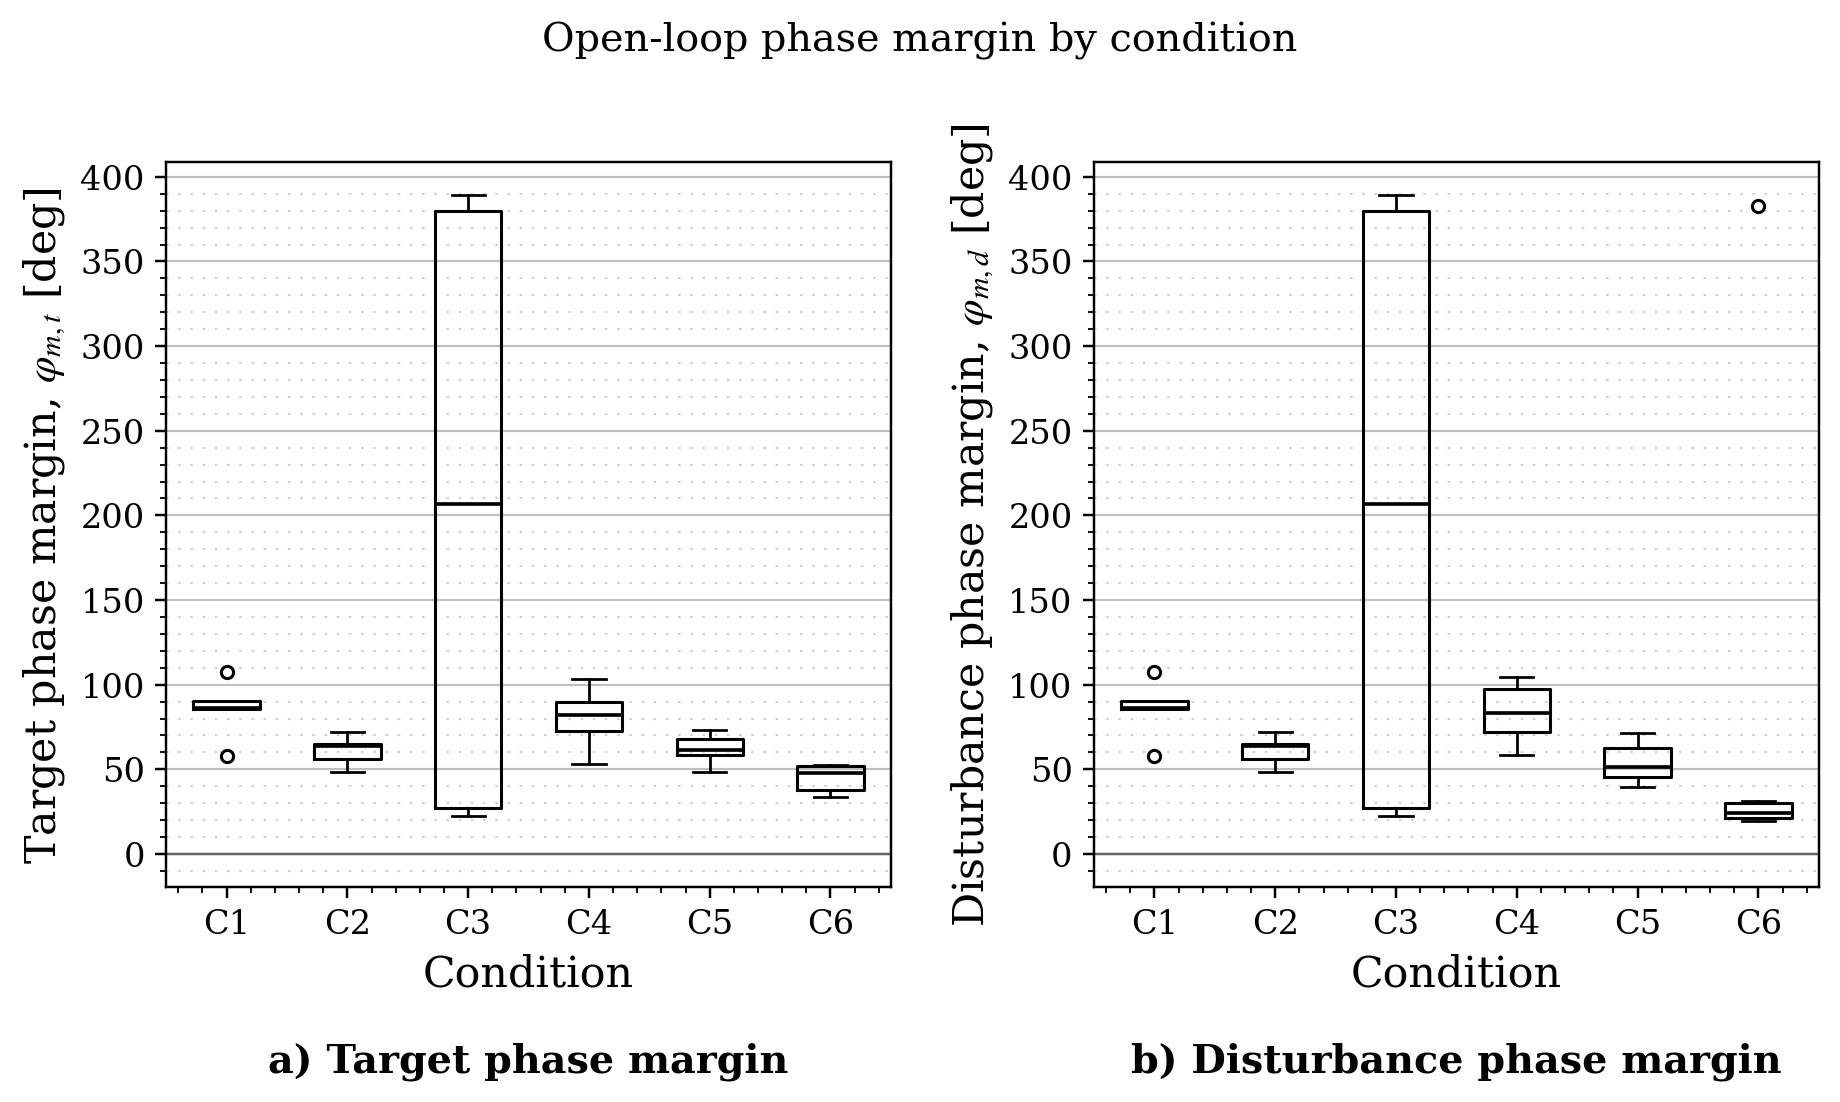
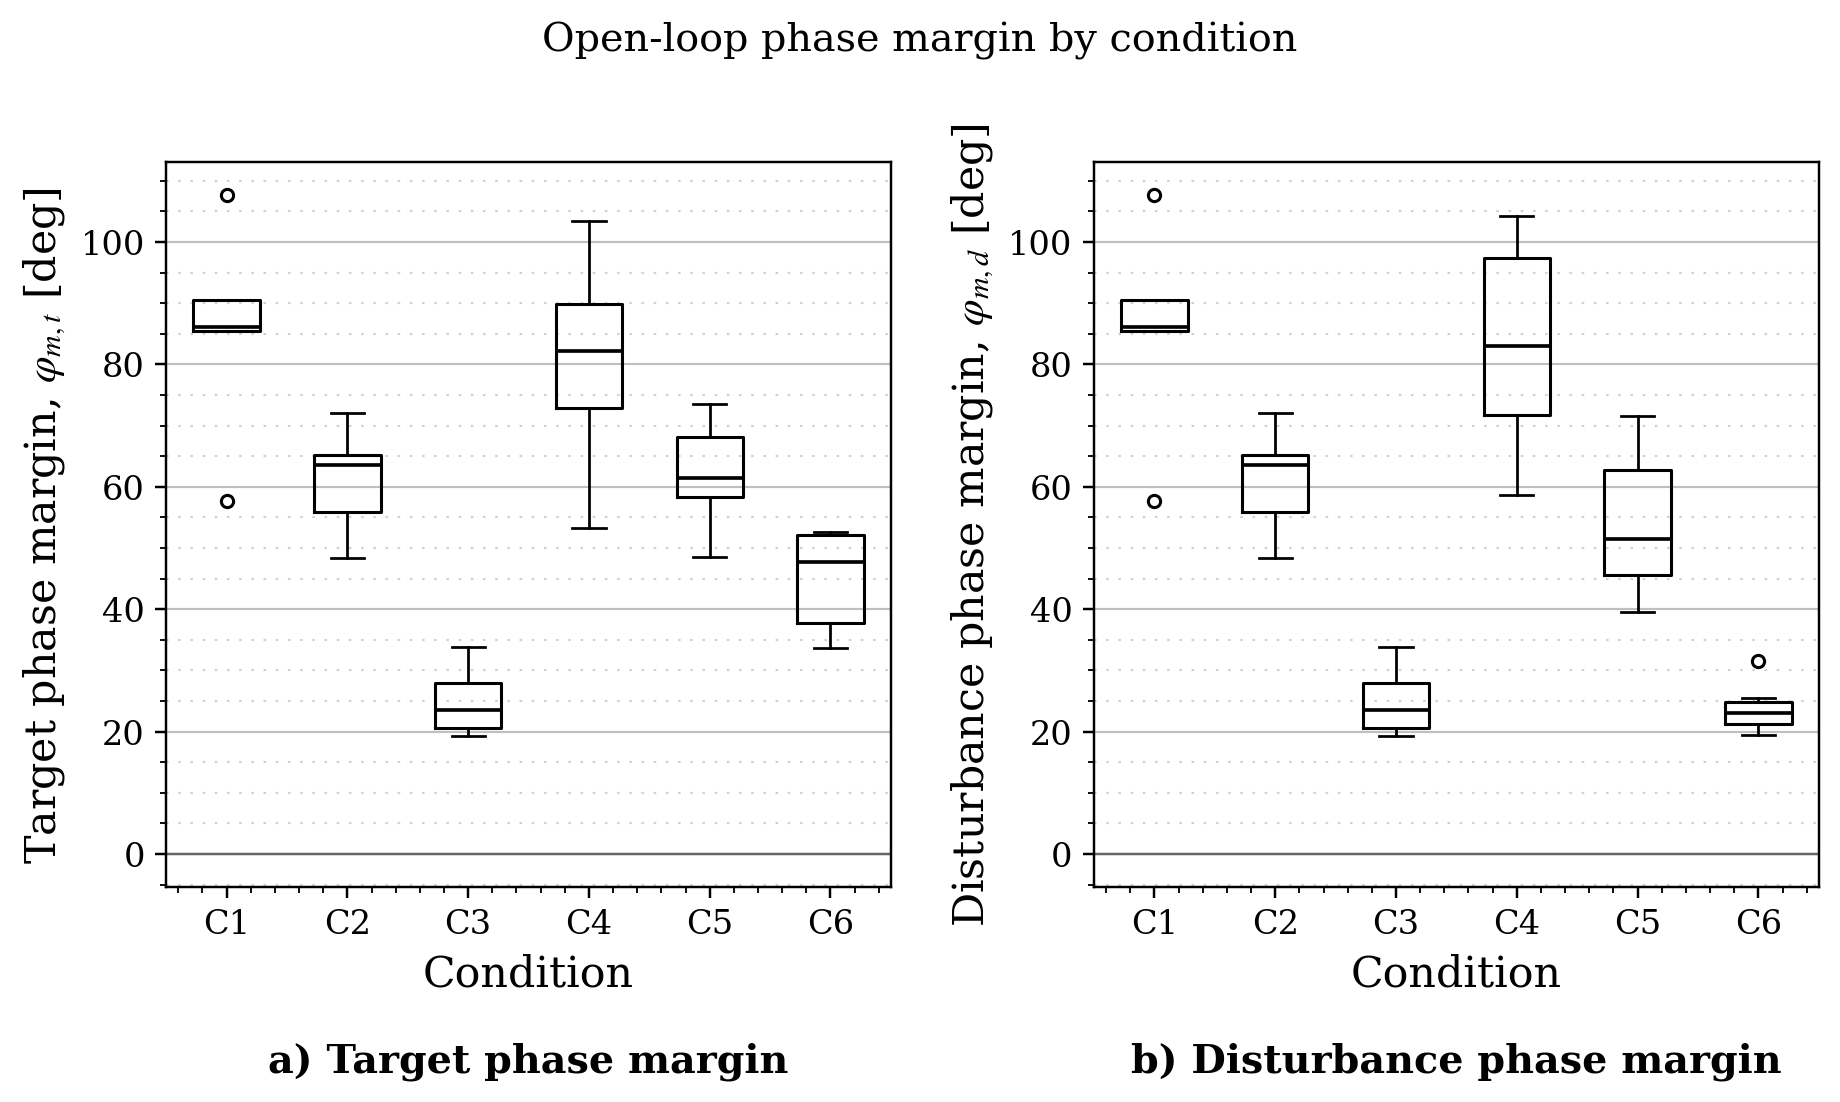
More boxplot changes. Nonparametric analysis unfinished

diff --git a/boxplot_main.py b/boxplot_main.py
@@ -1,3 +1,153 @@
+# import matplotlib.pyplot as plt
+# import numpy as np
+
+# global_parameters = np.load("global_parameters.npy", allow_pickle=True)
+
+# # Extract parameters for each condition
+# parameters_c1 = global_parameters[0]
+# parameters_c2 = global_parameters[1]
+# parameters_c3 = global_parameters[2]
+# parameters_c4 = global_parameters[3]
+# parameters_c5 = global_parameters[4]
+# parameters_c6 = global_parameters[5]
+
+# # Condition names (full set)
+# condition_names_all = [
+#     "C1",
+#     "C4",
+#     "C2 ",
+#     "C5 ",
+#     "C3 ",
+#     "C6 ",
+# ]
+
+# # Combine parameters into a list of lists for boxplot (full set)
+# all_conditions_all = [
+#     parameters_c1,  # C1
+#     parameters_c4,  # C4
+#     parameters_c2,  # C2
+#     parameters_c5,  # C5
+#     parameters_c3,  # C3
+#     parameters_c6,  # C6
+# ]
+
+# # Subset for Km and tau_m only (C4, C5, C6)
+# condition_names_motion_only = [
+#     "C4",
+#     "C5",
+#     "C6",
+# ]
+# all_conditions_motion_only = [
+#     parameters_c4,  # C4
+#     parameters_c5,  # C5
+#     parameters_c6,  # C6
+# ]
+
+# # Original column order (kept here so indices match the data)
+# all_params_original = [
+#     "Kp [-]",
+#     "TL [s]",
+#     "TI [s]",
+#     "tau [s]",
+#     "omega_nm [rad/s]",
+#     "zeta_nm [-]",
+#     "Km [-]",
+#     "Tsc1 [-]",
+#     "Tsc2 [-]",
+#     "Tsc3 [-]",
+#     "tau_m [s]",
+# ]
+
+
+
+# # Parameters we actually want to plot (exclude Tsc1/2/3)
+# params_to_plot = [
+#     "Kp [-]",
+#     "TL [s]",
+#     "TI [s]",
+#     "tau [s]",
+#     "omega_nm [rad/s]",
+#     "zeta_nm [-]",
+#     "Km [-]",
+#     "tau_m [s]",
+# ]
+
+
+
+# params_units = [
+#     "[-]",
+#     "[s]",
+#     "[s]",
+#     "[s]",
+#     "[rad/s]",
+#     "[-]",
+#     "[-]",
+#     "[-]",
+#     "[-]",
+#     "[-]",
+#     "[s]",
+# ]
+
+
+# # Map parameter name -> original column index
+# param_to_col = {p: i for i, p in enumerate(all_params_original)}
+
+
+# for param in params_to_plot:
+#     col_idx = param_to_col[param]
+
+#     # Only show C4/C5/C6 for Km and tau_m
+#     if param in ("Km [-]", "tau_m [s]"):
+#         conditions = all_conditions_motion_only
+#         labels = condition_names_motion_only
+#     else:
+#         conditions = all_conditions_all
+#         labels = condition_names_all
+
+#     plt.figure(figsize=(11, 6.5))
+#     data_to_plot = [condition[:, col_idx] for condition in conditions]
+
+#     plt.boxplot(data_to_plot, tick_labels=labels, showfliers=False)
+
+#     plt.xlabel("Condition", fontsize=18)
+#     plt.ylabel(param, fontsize=18)
+
+#     plt.xticks(ha="right", fontsize=18)
+#     plt.yticks(fontsize=18)
+
+#     plt.tight_layout()
+#     plt.subplots_adjust(bottom=0.22)
+
+#     plt.savefig(f"BOXPLOTS/boxplot_{param}.png", dpi=200, bbox_inches="tight")
+#     # plt.show()
+
+# print("Boxplot generation successful")
+
+
+
+# # # Create boxplots for each parameter across conditions
+# # for param in params_to_plot:
+# #     col_idx = param_to_col[param]
+
+# #     # Only show C4/C5/C6 for Km and tau_m
+# #     if param in ("Km", "tau_m"):
+# #         conditions = all_conditions_motion_only
+# #         labels = condition_names_motion_only
+# #     else:
+# #         conditions = all_conditions_all
+# #         labels = condition_names_all
+
+# #     plt.figure(figsize=(10, 6))
+# #     data_to_plot = [condition[:, col_idx] for condition in conditions]
+# #     plt.boxplot(data_to_plot, tick_labels=labels, showfliers=False)
+# #     #plt.title(f"Boxplot of {param} across conditions")
+# #     plt.xlabel("Condition")
+# #     plt.ylabel(param)
+# #     plt.xticks(rotation=45)
+# #     plt.tight_layout()
+# #     plt.savefig(f"BOXPLOTS/boxplot_{param}.png", dpi=200, bbox_inches="tight")
+# #     #plt.show()
+
 import matplotlib.pyplot as plt
 import numpy as np
 
@@ -11,17 +161,17 @@ parameters_c4 = global_parameters[3]
 parameters_c5 = global_parameters[4]
 parameters_c6 = global_parameters[5]
 
-# Condition names (full set)
+# Condition names (full set, includes no-motion + motion)
 condition_names_all = [
     "C1",
     "C4",
-    "C2 ",
-    "C5 ",
-    "C3 ",
-    "C6 ",
+    "C2",
+    "C5",
+    "C3",
+    "C6",
 ]
 
-# Combine parameters into a list of lists for boxplot (full set)
+# Full condition list
 all_conditions_all = [
     parameters_c1,  # C1
     parameters_c4,  # C4
@@ -31,19 +181,20 @@ all_conditions_all = [
     parameters_c6,  # C6
 ]
 
-# Subset for Km and tau_m only (C4, C5, C6)
+# Motion-only subset for Km and tau_m
 condition_names_motion_only = [
     "C4",
     "C5",
     "C6",
 ]
+
 all_conditions_motion_only = [
     parameters_c4,  # C4
     parameters_c5,  # C5
     parameters_c6,  # C6
 ]
 
-# Original column order (kept here so indices match the data)
+# Parameter names without units
 all_params_original = [
     "Kp",
     "TL",
@@ -58,7 +209,7 @@ all_params_original = [
     "tau_m",
 ]
 
-# Parameters we actually want to plot (exclude Tsc1/2/3)
+# Parameters to plot
 params_to_plot = [
     "Kp",
     "TL",
@@ -70,14 +221,43 @@ params_to_plot = [
     "tau_m",
 ]
 
+# Units
+param_units = {
+    "Kp": "[-]",
+    "TL": "[s]",
+    "TI": "[s]",
+    "tau": "[s]",
+    "omega_nm": "[rad/s]",
+    "zeta_nm": "[-]",
+    "Km": "[-]",
+    "Tsc1": "[-]",
+    "Tsc2": "[-]",
+    "Tsc3": "[-]",
+    "tau_m": "[s]",
+}
+
+# Optional prettier display names
+param_display_names = {
+    "Kp": "Kp",
+    "TL": "TL",
+    "TI": "TI",
+    "tau": "tau",
+    "omega_nm": "omega_nm",
+    "zeta_nm": "zeta_nm",
+    "Km": "Km",
+    "Tsc1": "Tsc1",
+    "Tsc2": "Tsc2",
+    "Tsc3": "Tsc3",
+    "tau_m": "tau_m",
+}
+
 # Map parameter name -> original column index
 param_to_col = {p: i for i, p in enumerate(all_params_original)}
-
 
 for param in params_to_plot:
     col_idx = param_to_col[param]
 
-    # Only show C4/C5/C6 for Km and tau_m
+    # Use motion-only subset only for these two parameters
     if param in ("Km", "tau_m"):
         conditions = all_conditions_motion_only
         labels = condition_names_motion_only
@@ -90,43 +270,17 @@ for param in params_to_plot:
 
     plt.boxplot(data_to_plot, tick_labels=labels, showfliers=False)
 
+    ylabel_text = f"{param_display_names[param]} {param_units[param]}"
     plt.xlabel("Condition", fontsize=18)
-    plt.ylabel(param, fontsize=18)
+    plt.ylabel(ylabel_text, fontsize=18)
 
-    plt.xticks(ha="right", fontsize=18)
+    plt.xticks(fontsize=18)
     plt.yticks(fontsize=18)
 
     plt.tight_layout()
     plt.subplots_adjust(bottom=0.22)
 
     plt.savefig(f"BOXPLOTS/boxplot_{param}.png", dpi=200, bbox_inches="tight")
-    # plt.show()
+    plt.close()
 
 print("Boxplot generation successful")
-
-
-
-# # Create boxplots for each parameter across conditions
-# for param in params_to_plot:
-#     col_idx = param_to_col[param]
-
-#     # Only show C4/C5/C6 for Km and tau_m
-#     if param in ("Km", "tau_m"):
-#         conditions = all_conditions_motion_only
-#         labels = condition_names_motion_only
-#     else:
-#         conditions = all_conditions_all
-#         labels = condition_names_all
-
-#     plt.figure(figsize=(10, 6))
-#     data_to_plot = [condition[:, col_idx] for condition in conditions]
-#     plt.boxplot(data_to_plot, tick_labels=labels, showfliers=False)
-#     #plt.title(f"Boxplot of {param} across conditions")
-#     plt.xlabel("Condition")
-#     plt.ylabel(param)
-#     plt.xticks(rotation=45)
-#     plt.tight_layout()
-#     plt.savefig(f"BOXPLOTS/boxplot_{param}.png", dpi=200, bbox_inches="tight")
-#     #plt.show()
-
-# print('Boxplot generation successful')

diff --git a/nonparametric_analysis_main.py b/nonparametric_analysis_main.py
@@ -380,6 +380,18 @@ def plot_subject_condition(subject: int, condition: int, kc: float = 1.0, outdir
     margins_d = compute_margins(w, L_d)
     margins_t = compute_margins(w, L_t)
 
+    if margins_d["phase_margin_deg"] > 360:
+        margins_d["phase_margin_deg"] = margins_d["phase_margin_deg"] - 360
+        phase_d = phase_d - 360
+        _, phase_d_s = smooth_curve_with_polynomial_regression(w, phase_d)
+    
+    if margins_t["phase_margin_deg"] > 360:
+        margins_t["phase_margin_deg"] = margins_t["phase_margin_deg"] - 360
+        phase_t = phase_t - 360
+        _, phase_t_s = smooth_curve_with_polynomial_regression(w, phase_t)
+
+
+
     fig, axs = plt.subplots(2, 2, figsize=(7.2, 7.2))
     fig.subplots_adjust(wspace=0.30, hspace=0.42)
 
